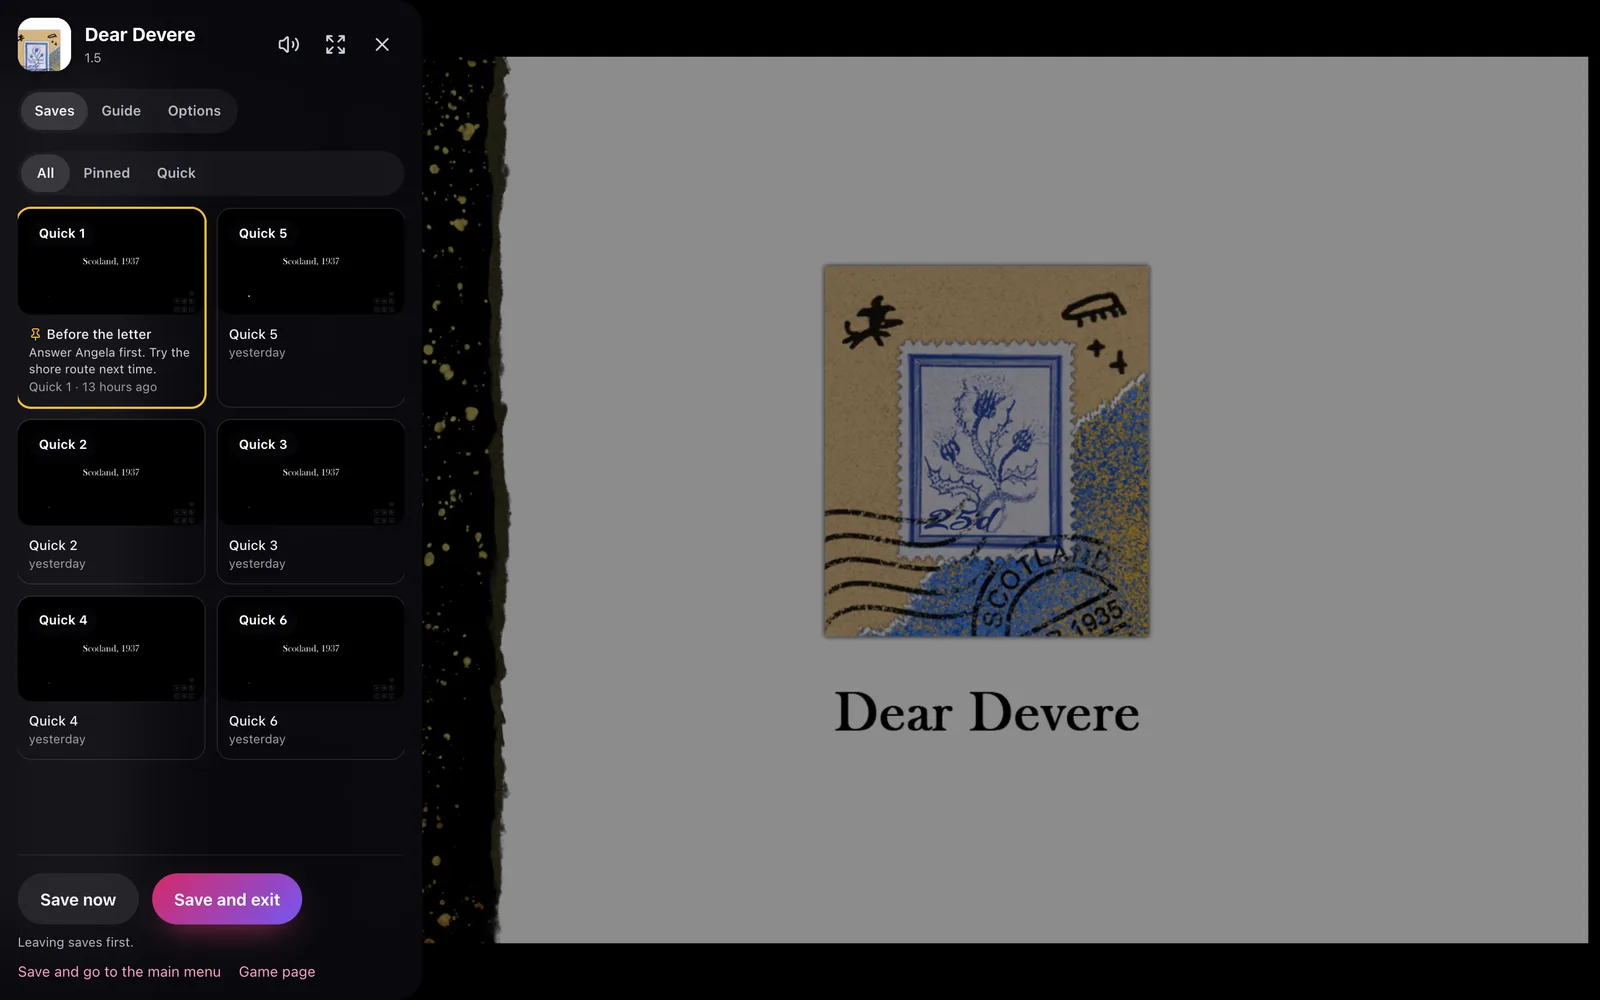
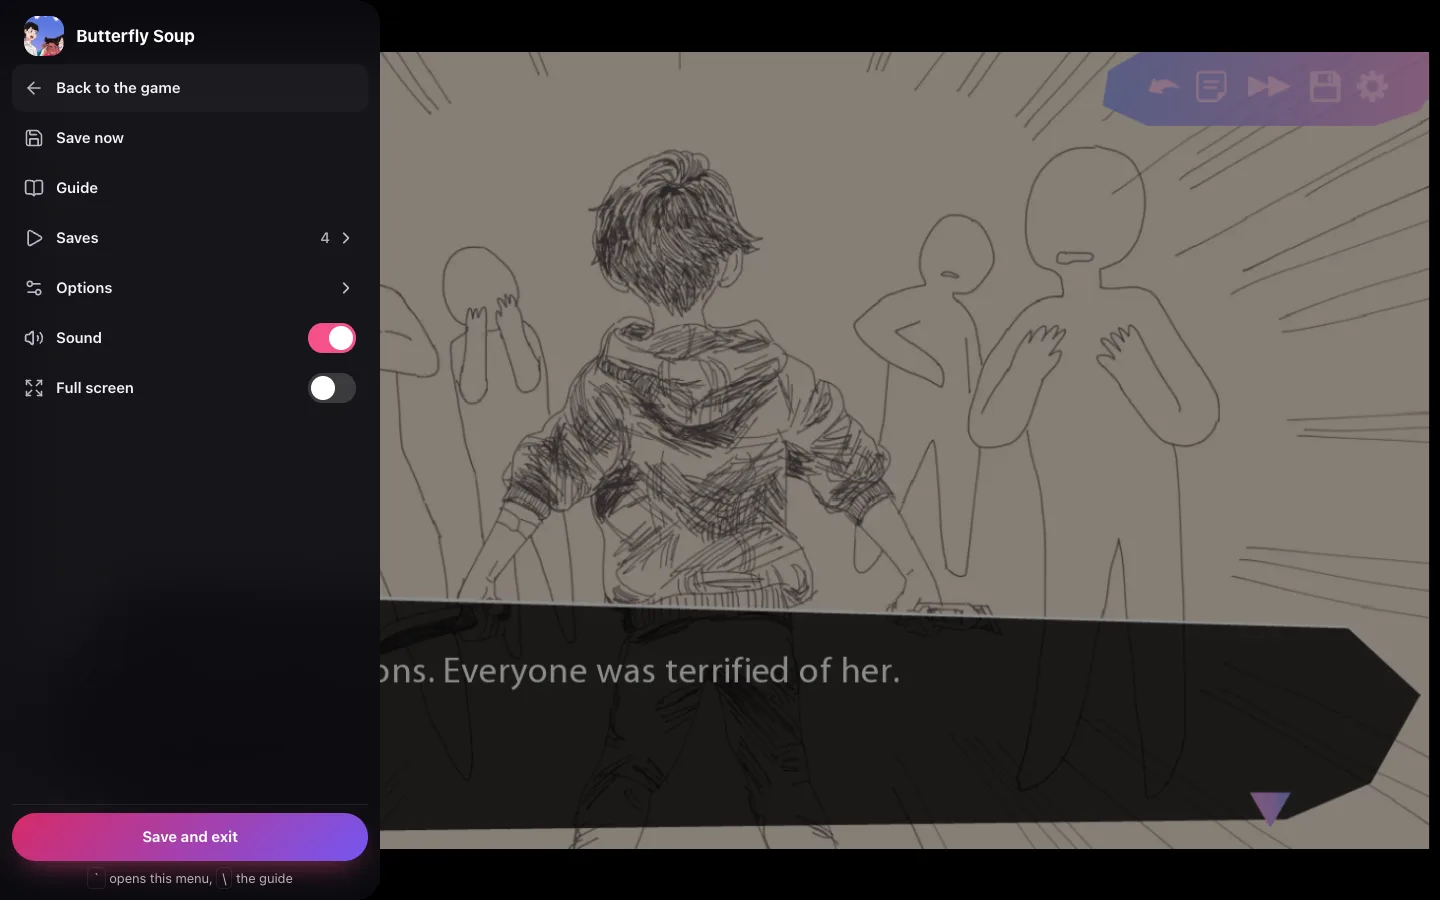
docs: the player's menu, keys, saves and update notice, and the changelog
Also keeps the landscape menu inside 390 px with the line about waiting saves, shows the iPhone full
screen help over the menu, and fixes the lit switch being larger than the unlit one.

diff --git a/selector/src/pages/player/PlayerMenu.tsx b/selector/src/pages/player/PlayerMenu.tsx
@@ -1,5 +1,5 @@
 import { ArrowLeft, BookOpen, ChevronLeft, ChevronRight, Check, CloudOff, Expand, Play, Save, Settings2, Smartphone, Volume2, VolumeX } from 'lucide-react'
-import { useEffect, useRef, type ReactNode } from 'react'
+import { useEffect, useRef, type CSSProperties, type ReactNode } from 'react'
 import type { Game } from '@shared/api'
 import { Frame } from '../../lantern/art'
 import { Pill } from '../../lantern/controls'
@@ -95,7 +95,8 @@ export function PlayerMenu({
     opened.current = view
   }, [view])
   const link = game.recipe?.links.walkthrough
-  const sheet = portrait ? { paddingBottom: 12 + insets.bottom, paddingLeft: 12 + insets.left, paddingRight: 12 + insets.right } : { paddingTop: 8 + insets.top, paddingLeft: 12 + insets.left, paddingBottom: 12 + insets.bottom }
+  // The safe areas of the screen, which the sheet's padding adds to its own.
+  const sheet = { '--pi-top': `${insets.top}px`, '--pi-right': `${insets.right}px`, '--pi-bottom': `${insets.bottom}px`, '--pi-left': `${insets.left}px` } as CSSProperties
   return (
     <>
       <div className="pm-scrim" onClick={onClose} aria-hidden="true" />
@@ -166,7 +167,9 @@ export function PlayerMenu({
                 {fsMode === 'home-screen' ? (
                   <button type="button" className="pm-row" onClick={onFullscreen}>
                     <Smartphone />
-                    Full screen on iPhone
+                    <span>
+                      Full screen<span className="pm-wide"> on iPhone</span>
+                    </span>
                     <span className="pm-end">
                       <ChevronRight />
                     </span>

diff --git a/selector/src/pages/player/Player.css b/selector/src/pages/player/Player.css
@@ -141,7 +141,7 @@
   width: min(380px, 92vw);
   display: flex;
   flex-direction: column;
-  padding: 8px 12px 12px;
+  padding: calc(8px + var(--pi-top, 0px)) 12px calc(12px + var(--pi-bottom, 0px)) calc(12px + var(--pi-left, 0px));
   background: var(--glass-deep);
   backdrop-filter: blur(30px) saturate(140%);
   border-radius: 0 var(--r-sheet) var(--r-sheet) 0;
@@ -152,6 +152,7 @@
   right: 0;
   width: auto;
   max-height: 82dvh;
+  padding: 8px calc(12px + var(--pi-right, 0px)) calc(12px + var(--pi-bottom, 0px)) calc(12px + var(--pi-left, 0px));
   border-radius: var(--r-sheet) var(--r-sheet) 0 0;
   animation-name: pm-up;
 }
@@ -275,6 +276,13 @@
 .pm .seg {
   height: 48px;
 }
+.pm-rule {
+  flex: none;
+  width: auto;
+  margin: 4px 12px;
+  border: 0;
+  border-top: 1px solid var(--line);
+}
 .pm-field {
   display: flex;
   flex-direction: column;
@@ -380,10 +388,18 @@
 @media (max-height: 500px) {
   .pm {
     --pm-row: 40px;
-    padding: 8px;
+    padding: calc(6px + var(--pi-top, 0px)) 8px calc(6px + var(--pi-bottom, 0px)) calc(8px + var(--pi-left, 0px));
   }
   .pm-head {
-    height: 40px;
+    height: 32px;
+  }
+  .pm-foot {
+    gap: 4px;
+    margin-top: 4px;
+    padding-top: 4px;
+  }
+  .pm-exit {
+    min-height: 44px;
   }
   .pm-icon,
   .pm-keys {
@@ -397,12 +413,14 @@
     gap: 4px;
   }
   .pm-switches .pm-row {
+    background: var(--plate);
     flex: 1 1 0;
     min-width: 0;
     padding: 0 8px;
     gap: 6px;
   }
-  .pm-switches .pm-row > svg {
+  .pm-switches .pm-row > svg,
+  .pm-wide {
     display: none;
   }
   .pm-save {

diff --git a/selector/src/pages/Player.tsx b/selector/src/pages/Player.tsx
@@ -514,7 +514,11 @@ export default function Player() {
           fsMode={fsMode}
           fullscreen={fullscreen}
           escLocked={escLocked}
-          onFullscreen={() => void toggleFullscreen()}
+          onFullscreen={() => {
+            // On an iPhone the row opens the help sheet, which sits under the menu.
+            if (fsMode === 'home-screen') closeMenu()
+            void toggleFullscreen()
+          }}
           waiting={waiting}
           keys={touch ? null : keys}
           pad={padConnected}

diff --git a/docs/site/src/content/docs/guides/playing.md b/docs/site/src/content/docs/guides/playing.md
@@ -35,25 +35,38 @@ While the game loads, one bar shows how far it is, from the engine to the game's
 **Game page**, **Sound** and **Full screen** sit at the top, so you can leave, mute or go full
 screen before it starts.
 
-The game paces itself to your display. Two quiet things sit over it: the **Renplay** pill at the
-top left and, beside it, **Full screen**. Both are lit for the first seconds of a game. The pill (or
-**Esc**, or a swipe from the left edge on a phone) opens the player menu:
+The game paces itself to your display. A **Menu** pill sits over it at the top left, with **Full
+screen** beside it. The pill is lit for the first seconds of a game, shows the key that opens the
+menu on a computer, and shows the controller's Menu button while one is connected. Press it, press
+the **`** key (left of **1**), or swipe from the left edge on a phone to open the player menu:
 
-![The player menu open over a game, with its saves](../../../assets/desktop-player-drawer.webp)
+![The player menu open over a game](../../../assets/desktop-player-drawer.webp)
 
-- **Sound**, **Full screen** and close at its top.
-- **Saves** to load one, **Guide** for the game's walkthroughs, and **Options** for the display,
-  the text size and Ren'Py's own accessibility menu.
-- Under **For you in this game**, **Rollback**, **Skip** and the **Developer console** turn those
-  on even where the game turns them off. They are kept with the game's saves, so they follow you
-  to every device, and the game's files do not change. An admin can set Rollback, Skip and the text
+- **Back to the game** is the first row. **Save now** makes a quick save and says where it went,
+  "Saved as Quick 1".
+- **Guide** opens the game's walkthroughs, when it has any.
+- **Saves** lists your saves, with pinned ones first and then the newest. A tap on one saves where
+  you are and then loads it, so a mis-tap never loses your place. The last row, **Manage saves on
+  the game page**, takes you to where you can pin, name, restore, import and export.
+- **Options** has the text size, **Fit** or **Fill**, the camera cutout on a phone, **Rollback** and
+  **Skip** even where the game turns them off, Ren'Py's own accessibility screen, the developer
+  console and the game's log. The choices for the game are kept with its saves, so they follow you to
+  every device, and the game's files do not change. An admin can set Rollback, Skip and the text
   size for everyone who has not chosen ([Defaults for everyone](/accounts/#defaults-for-everyone)).
-- **Save now** makes a quick save, **Save and exit** saves and goes back to the library, and
-  **Save and go to the main menu** starts the game again at its main menu.
+- **Sound** and **Full screen** are switches. **Save and exit** saves, waits until the server has
+  every save, and goes back to where you pressed Play.
 
-**Options → Scaling** decides how the game meets a screen of another shape. **Fit** shows the whole
+**Esc** goes back one step in the menu and then closes it. In the game, Esc is still Ren'Py's own
+menu. In full screen on a computer the menu says **Hold Esc to leave**.
+
+**Options → Picture** decides how the game meets a screen of another shape. **Fit** shows the whole
 game in its own shape with bars around it. **Fill** has no bars at the sides: it crops the edges of a
 game wider than the screen, and never the top or bottom, where games keep their dialogue.
+
+Walkthroughs open in a window beside the game that you can move, resize and see through, or below
+it on a phone held upright. The **\** key opens and closes the window when the game has one. The two
+keys work wherever the focus is, also in full screen, and the game never sees them. A name typed
+into a game's text field cannot contain them.
 
 Walkthroughs open in a window beside the game that you can move, resize and see through, or below
 it on a phone held upright.
@@ -96,7 +109,7 @@ The player explains this itself where a fullscreen button would not work.
 
 ### Android
 
-Use **Full screen** beside the **Renplay** pill.
+Use **Full screen** beside the **Menu** pill.
 
 Serve Renplay over HTTPS so the browser can cache the game and the home-screen app works. See
 [Reverse proxy and HTTPS](/install/reverse-proxy/).
@@ -112,8 +125,10 @@ wherever the server is out of reach.
    download continues where it was.
 3. With no network, open Renplay as usual. The library says it is offline, and kept games play.
 
-Saves made offline wait on the device. The player says how many are waiting, and sends them when the
-network is back, with the usual rule when another device saved too. **Update offline copy**
+Saves made offline wait on the device. A small amber cloud beside the **Menu** pill says so, and the
+menu explains it. They go up when the network is back, with the usual rule when another device saved
+too. A game that is already running keeps running when the network drops. Files it still has to
+download are the part that cannot arrive without a network. **Update offline copy**
 appears when the game gets a new version, and the old copy keeps playing until then. **Remove
 offline copy** frees the space. Your saves are never part of it.
 
@@ -131,7 +146,8 @@ A controller works everywhere in Renplay. The d-pad or left stick moves between 
 **A** presses and **B** closes sheets and menus. In a game the controller plays through Ren’Py’s
 own buttons: **A** advances and chooses, the d-pad moves through menus, the shoulder buttons roll
 back and forward, and **B** opens the game's menu. The **Menu** button (Start) opens the player
-menu instead, and closes it again.
+menu instead, and closes it again. In the player menu, **A** presses and **B** goes back, then
+closes.
 
 ## Saves and history
 

diff --git a/CHANGELOG.md b/CHANGELOG.md
@@ -10,6 +10,28 @@ release notes say what).
 ### Added
 
 - Renplay keeps a copy of its library database before changing it and alongside the daily save backup.
+- In a game, the **Menu** pill says what it is and shows the key that opens the menu. It is lit for the first seconds, then stays at 75 percent so it is easy to find on a phone too. With a controller connected it shows the Menu button.
+- Press **`** (left of **1**) in a game to open and close the menu, and **\** to open and close the walkthrough. They work wherever the focus is, in full screen too. **Esc** in the menu goes back a step, then closes it.
+- Tapping a save in the game's menu saves where you are first, then loads it, and says "Loaded. Where you were is saved too."
+- **Save now** says where the save went, "Saved as Quick 1", and the list of saves shows it at once.
+- The game's saves list pinned saves first and then the newest, in the menu and on the game's page. The menu has a last row, **Manage saves on the game page**.
+- **Not now** on a game's update notice hides it for you on every device, until the catalog lists a still newer release.
+- When a game is running and the connection drops, a small amber cloud appears by the **Menu** pill, and the menu says that saves go up when the server is back.
+
+### Changed
+
+- The game's menu is one short list: **Back to the game**, **Save now**, **Guide**, **Saves**, **Options**, **Sound** and **Full screen**, then **Save and exit**. Saves and Options open in place with a **Back** row. Rows are at least 44 px tall (40 px on a phone held sideways), and no text is smaller than 13 px.
+- **Save and exit** goes back to where you pressed Play, the game's page or the Library.
+- A game that is already running keeps running when the network drops. Before, the whole game was replaced by an offline page and started again when the network came back.
+- A game's update notice is shown in one place, the card on its page, and only when there is an update or the version you have does not work. The Library no longer shows a banner or an Update label on the tile, and **Details** shows the version you have and the one in the catalog.
+- The loading screen's buttons can no longer be reached with the keyboard or a controller once the game has started.
+- When you resume a save, the loading screen names it, "Resuming Quick 1", not "quick-1".
+- Switches that are on are the same size as switches that are off.
+
+### Removed
+
+- **Save and go to the main menu** and **Game page** in the game's menu, the note "Leaving saves first", the game's version under its title, "Powered by Ren'Py", the line with the game's size, the text under the options, the three-step home screen guide in Options (a row opens the help instead), and the filters over the saves in the game.
+- The hint at the top of the screen when a game goes full screen. Under the **Full screen** switch, the menu says **Hold Esc to leave** while Esc is locked.
 
 ## [4.10.0] - 2026-11-11
 

diff --git a/docs/site/src/content/docs/developers/architecture.md b/docs/site/src/content/docs/developers/architecture.md
@@ -154,10 +154,16 @@ shares) injected. The server builds it at start and serves it at `/renplay/runti
   are counted as their bytes arrive (renpy-pre.js keeps its own `game.zip` count private), then
   Ren'Py's own reports for unpacking and loading the scripts. Each step has a share of the bar.
 - **Talks to the player** through `postMessage` (`renplay:*`): ready, progress, fullscreen,
-  save and exit, load a slot, download the log, options, the controller.
+  save and exit, load a slot, download the log, options, the controller, and the keys.
+  `renplay:save-and-load` runs the same `autosave()` as save and exit, waits for it and then loads,
+  and answers `renplay:loaded`. Saving moves the autosaves and quick saves up one place, so the slot
+  to load is copied to the hidden slot `_renplay-load` first and read from there.
+- **Catches Renplay's keys** in the capture phase (`renplay-player.js`), by `e.code`: ` opens and
+  closes the player's menu and \ its guide (only once the player has said, with `renplay:keys`,
+  that the game has one). They arrive as `renplay:key`, and the game never sees them.
 - **Hands the controller to the player** for its Menu button: Start is taken out of Ren'Py's
   `config.pad_bindings` (again on each press, since a restarted game reads them anew), and while
-  the drawer is open `navigator.getGamepads` answers empty, until every button is released after it
+  the menu is open `navigator.getGamepads` answers empty, until every button is released after it
   closes.
 
 The player (`selector/src/pages/Player.tsx`) sizes the game from the stage's real size and the
@@ -228,6 +234,10 @@ independently of builds, and their play sessions in `play_sessions`. Both belong
 `PUT /api/games/:id/favorite` accepts `{ "on": boolean }` and returns `{ ok, game }`.
 Game JSON exposes `favoriteAt` as an ISO timestamp or null. Setting an existing favourite keeps
 its timestamp. Uninstall keeps it. Forgetting the library entry removes it.
+`user_games.update_dismissed` (nullable, added without raising the floor) holds the catalog version
+whose update notice the person silenced with Not now. `POST` and `DELETE`
+`/api/games/:id/update-not-now` set and clear it, and the game JSON's `updateDismissed` is that
+version only while it is still the catalog's newest, so a newer release brings the notice back.
 
 Schema 5 adds `games.finished_at` (ISO timestamp or empty) and `games.play_time` (seconds,
 initially zero). The migration is transactional and changes no save files. Uninstall and rebuilds

diff --git a/docs/site/src/content/docs/guides/adding-games.md b/docs/site/src/content/docs/guides/adding-games.md
@@ -55,8 +55,10 @@ pressed **Retry** on the same job.
 - **Uninstall** removes the build. **Saves stay.** So do your mods, the library entry and
   favourites.
 - **Reinstall** from the kept archive makes a fresh build, and saves stay.
-- **Updates.** When the catalog lists a newer tested release than the one you have, Renplay says
-  so. Download the new file and add it the same way.
+- **Updates.** When the catalog lists a newer tested release than the one you have, the game's page
+  says so, under **Play**. Download the new file and add it the same way. **Not now** hides the
+  notice for you, on every device, until the catalog lists a still newer release. **Details** keeps
+  the version you have and the one in the catalog.
 - **Mods.** A Ren’Py game's **Mods and files** tab (admins) starts with what your mods change: **Install
   mod zip** adds a mod as it comes, **Apply changes** builds a new version of the game with your
   mods, and **Remove all mods** goes back to the original. Below, the game's files, folder by
